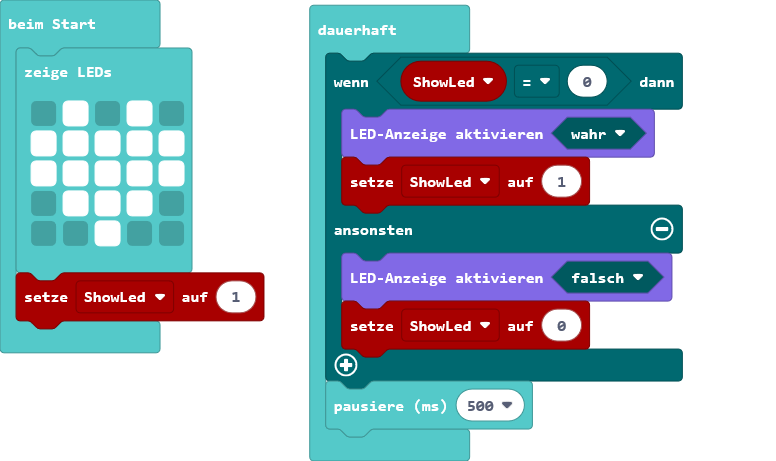
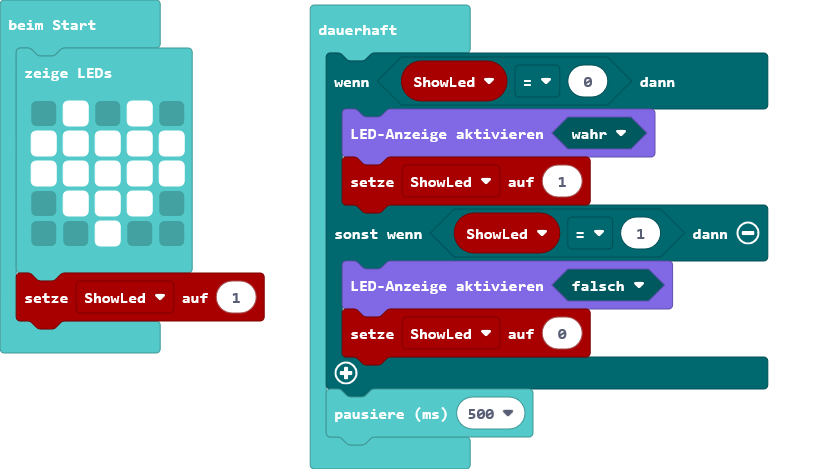
Aktualisiere main.blocks, main.ts

diff --git a/main.ts b/main.ts
@@ -10,7 +10,7 @@ basic.forever(function () {
     if (ShowLed == 0) {
         led.enable(true)
         ShowLed = 1
-    } else {
+    } else if (ShowLed == 1) {
         led.enable(false)
         ShowLed = 0
     }
